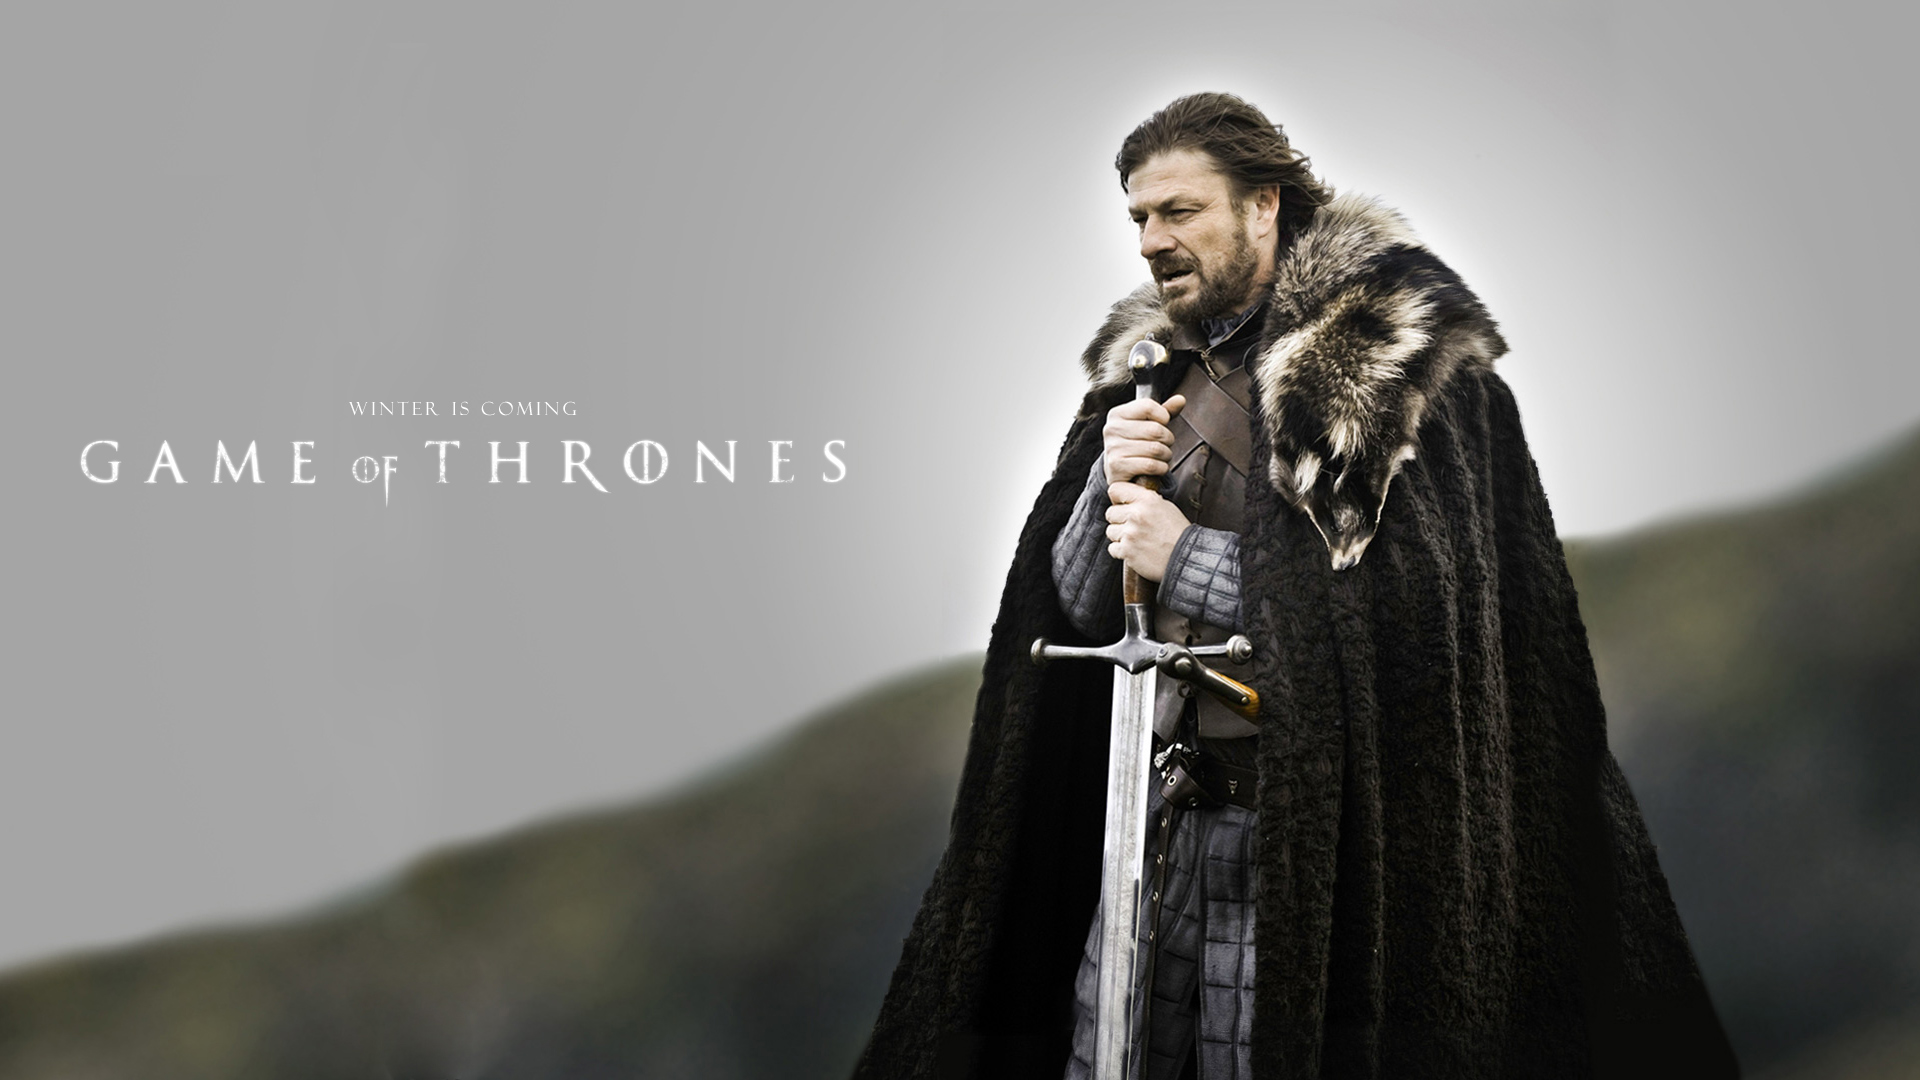
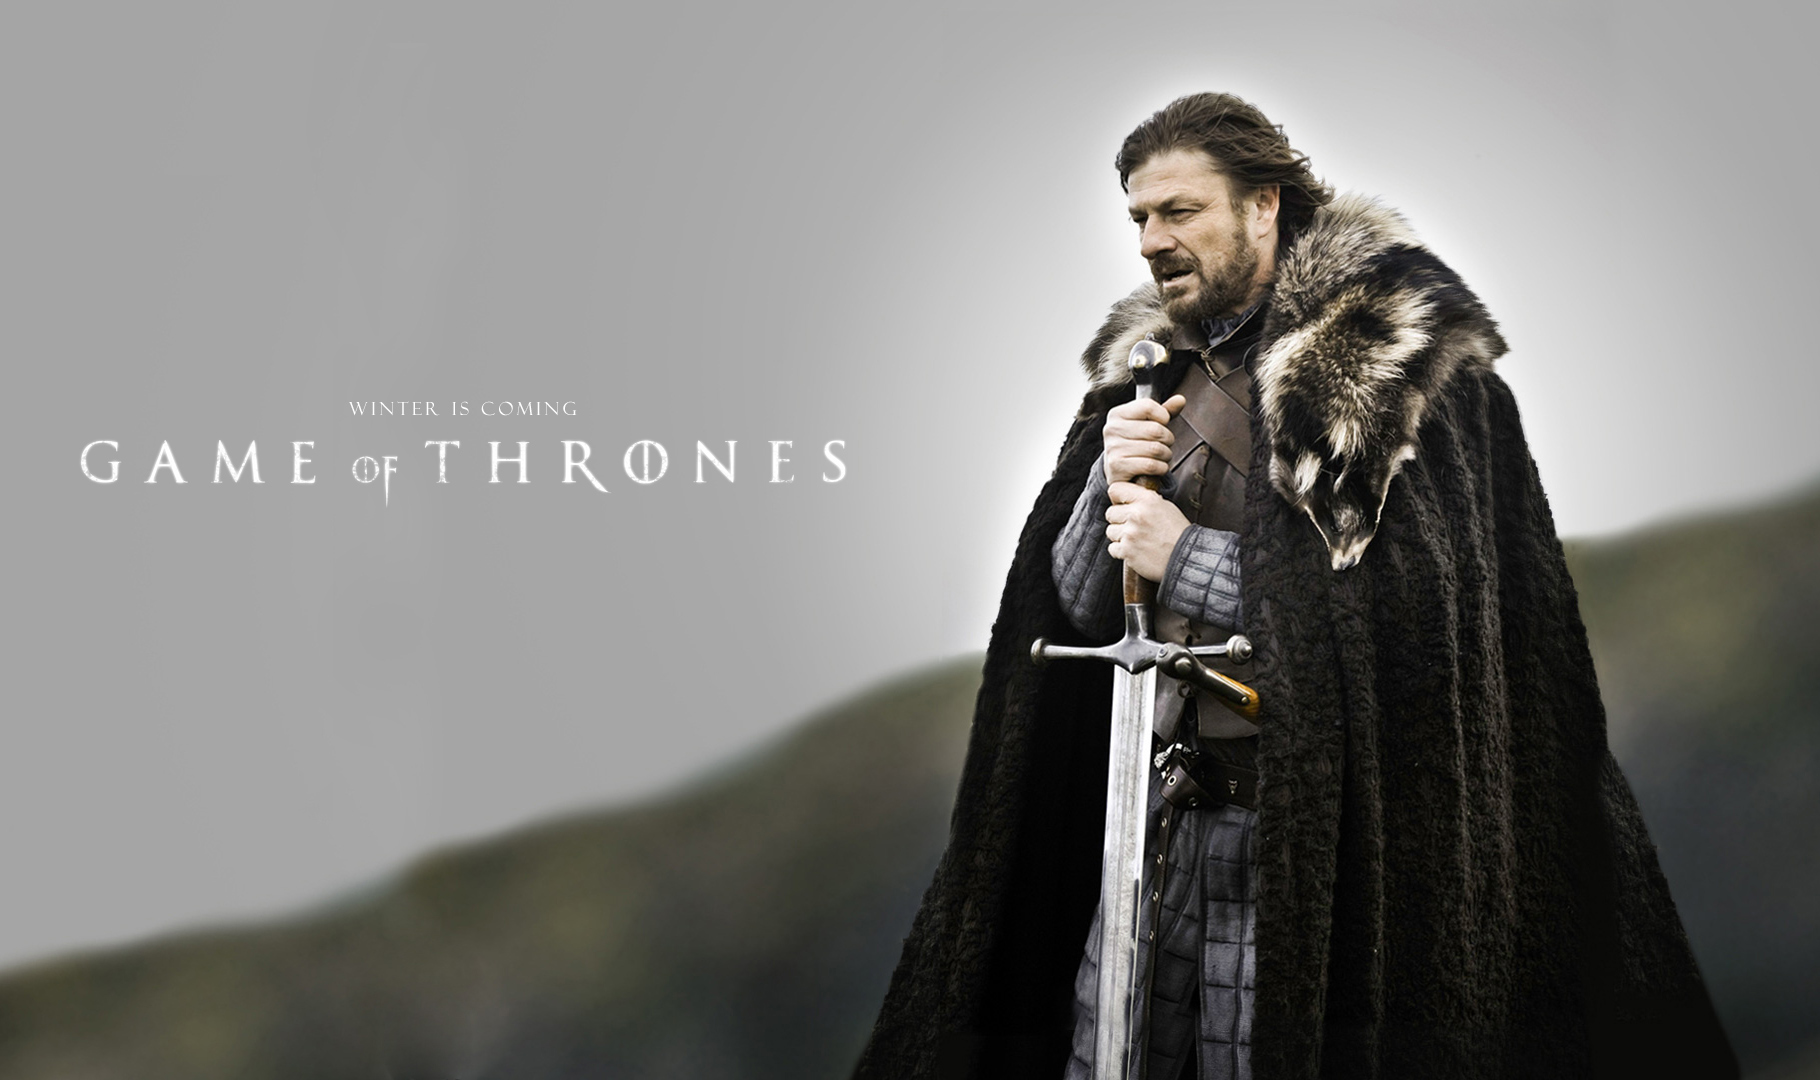
Minor fix to nav bar of main page

diff --git a/app/static/index.html b/app/static/index.html
@@ -13,30 +13,20 @@
   <link href='https://fonts.googleapis.com/css?family=Raleway:300,400' rel='stylesheet' type='text/css'>
 
   <link rel="stylesheet" type="text/css" href="css/index.css">
+  <script src="js/carousel-fullscreen.js"></script>
 </head>
 
 <body>
-  <nav class="navbar navbar-default navbar-fixed-top" role="navigation">
-    <div class="container-fluid shadow-navbar">
-      <div class="navbar-header">
-        <a class="navbar-brand" href="#">GoT Data</a>
-      </div>
-      <ul class="nav navbar-nav">
-        <li><a href="#">Characters</a></li>
-        <li><a href="#">Houses</a></li>
-        <li><a href="#">Events</a></li>
-        <li><a href="#">Locations</a></li>
-      </ul>
-    </div>
-  <nav>
-
+  <!-- Carousel -->
   <div id="bg-carousel" class="carousel slide" data-ride="carousel">
+    <!-- Indicators -->
     <ol class="carousel-indicators">
-      <li data-target="bg-carousel" data-slide-to="0" class="active">
-      <li data-target="bg-carousel" data-slide-to="1">
-      <li data-target="bg-carousel" data-slide-to="2">
+      <li data-target="#bg-carousel" data-slide-to="0" class="active"></li>
+      <li data-target="#bg-carousel" data-slide-to="1"></li>
+      <li data-target="#bg-carousel" data-slide-to="2"></li>
     </ol>
 
+    <!-- Images -->
     <div class="carousel-inner" role="listbox">
       <div class="item active">
         <img class="fill" src="img/bg1.jpg" alt="got1">
@@ -49,6 +39,31 @@
       </div>
     </div>
   </div>
+
+  <!-- Navigation bar -->
+  <nav class="navbar navbar-default navbar-fixed-top" role="navigation">
+    <div class="container-fluid">
+      <!-- Navigation header -->
+      <div class="navbar-header">
+        <button type="button" class="navbar-toggle" data-toggle="collapse" data-target="#theNavbar">
+        <span class="icon-bar"></span>
+        <span class="icon-bar"></span>
+        <span class="icon-bar"></span>
+      </button>
+        <a class="navbar-brand" href="#">GoT Data</a>
+      </div>
+
+      <!-- Navigation items -->
+      <div class="collapse navbar-collapse" id="theNavbar">
+        <ul class="nav navbar-nav">
+          <li><a href="#">Characters</a></li>
+          <li><a href="#">Houses</a></li>
+          <li><a href="#">Events</a></li>
+          <li><a href="#">Locations</a></li>
+        </ul>
+      </div>
+    </div>
+  <nav>
 </body>
 
 </html>

diff --git a/app/static/js/carousel.js b/app/static/js/carousel.js
@@ -1,0 +1,25 @@
+// var $item = $('.carousel .item'); 
+// var $wHeight = $(window).height();
+
+// $item.height($wHeight); 
+// $item.addClass('full-screen');
+
+// $('.carousel img').each(function() {
+//   var $src = $(this).attr('src');
+//   // var $color = $(this).attr('data-color');
+//   $(this).parent().css({
+//     'background-image' : 'url(' + $src + ')',
+//     // 'background-color' : $color
+//   });
+//   $(this).remove();
+// });
+
+// $(window).on('resize', function (){
+//   $wHeight = $(window).height();
+//   $item.height($wHeight);
+// });
+
+$('.carousel').carousel({
+  interval: 5000,
+  pause: "false"
+});

diff --git a/app/static/css/index.css b/app/static/css/index.css
@@ -31,8 +31,15 @@
   width: 100%;
   height: 100%;
   background-position: center;
-  -webkit-background-size: cover;
-  -moz-background-size: cover;
   background-size: cover;
-  -o-background-size: cover;
+  background-repeat: no-repeat;
+/*  -webkit-background-size: cover;
+  -moz-background-size: cover;
+  -o-background-size: cover;*/
 }
+
+/*.full-screen {
+  background-size: cover;
+  background-position: center;
+  background-repeat: no-repeat;
+}*/
